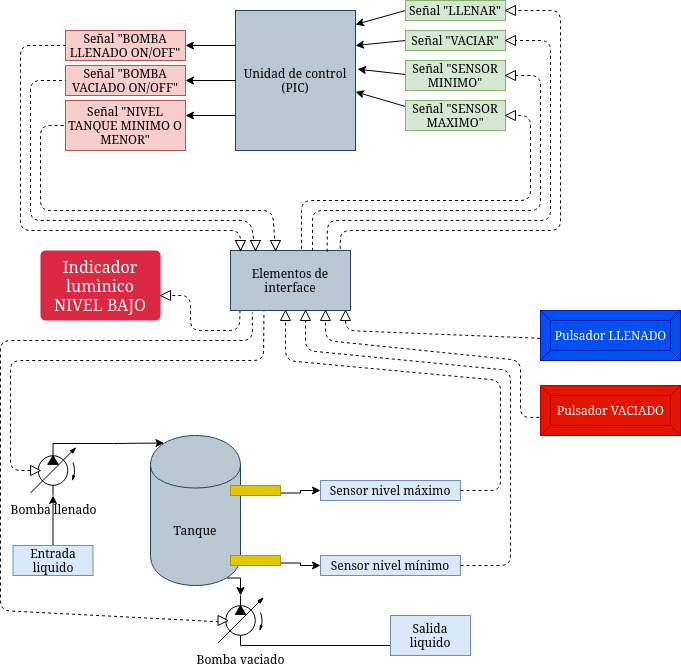
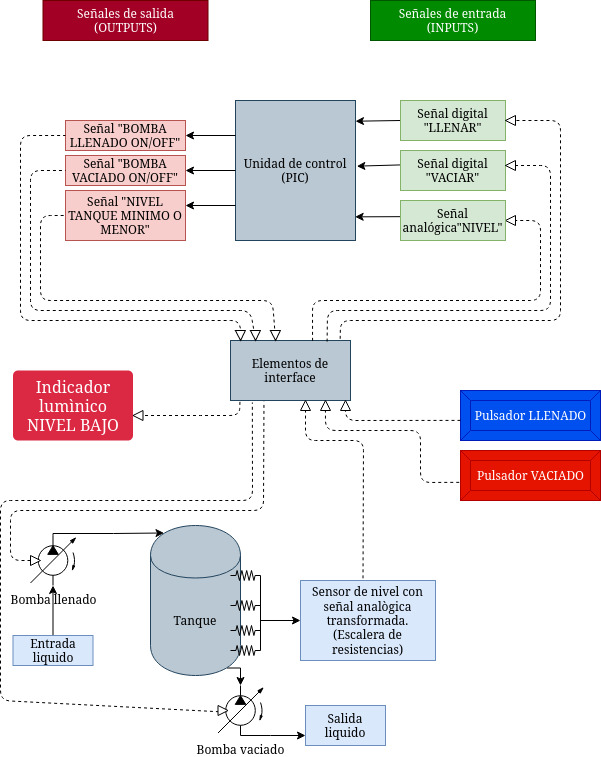
Actualizo diagrama de aequitectura inicial, formato y titulos de informe segun TODO, y Readme

diff --git a/TP3/doc/informe.tex b/TP3/doc/informe.tex
@@ -59,7 +59,7 @@ labelfont=bf,textfont=it}
 
 % Pagina propia de titulo
 \begin{titlepage}\renewcommand\and\par\centering\makeatletter
-%    \includegraphics{logo.png}\par
+    \includegraphics{logo.png}\par
     {\Large Ingeniería en Computación \par}\vspace{0.5cm}
     {\LARGE Laboratorio de Microprocesadores \par}\vfill
     {\huge \@title \par}\vfill
@@ -84,235 +84,26 @@ labelfont=bf,textfont=it}
 \section{Introducción}
 
 
-\subsection*{Características de los Puertos Analógicos}
-
-En la Figura \ref{fig:analog-pin} se muestra un circuito simplificado
-para una entrada analó-gica. Como los pines analógicos están conectados
-a una salida digital, tienen diodos con polarización inversa a VDD y 
-VSS. La entrada analógica, por lo tanto, debe estar entre VSS y VDD.
-
-\begin{figure}[h]\centering
-%    \includegraphics[height=3cm]{informefig4.png}
-    \caption{Ilustración del circuito interno de un puerto analógico}
-    \label{fig:analog-pin}
-\end{figure}
-
-Si el voltaje de entrada se desvía de este rango en más de 0.6V
-en cualquier dirección, uno de los diodos está polarizado hacia adelante
-y puede producirse un bloqueo. Se recomienda una resistencia máxima de 10 kOhm para las fuentes analógicas.
-Cualquier componente externo conectado a un pin de entrada analógica,
-como un capacitor o un diodo Zener, debe tener muy poca pérdida de corriente.
-
-\subsubsection*{Módulo Comparador Análógico}
-
-El PIC12F675 tiene un comparador analógico, y las entradas al
-comparador se multiplexan con los pines GP0 y GP1.
-Además, GP2 se puede configurar como salida del comparador.
-El registro de control del comparador (CMCON) contiene
-los bits para controlarlo.
-		
-\begin{figure}[h]\centering
-%    \includegraphics[height=4cm]{informefig3.png}
-    \caption{Resultado del comparador según los niveles de señales}
-    \label{fig:analog-signal}
-\end{figure}
-
-En la Figura \ref{fig:analog-signal} se muestra el resultado de la 
-comparación según el nivel de la señales. Cuando la entrada 
-analógica en VIN+ es menor a la entrada
-analógica en VIN-, generará una salida de nivel bajo, pero si VIN+
-es mayor que VIN-, generará un nivel alto.
-Para poder trabajar con el comparador
-utilizando la entrada analógica AN0 y el voltaje de referencia VREF 
-en lugar de GP0 y GP1, hay que setear los bits en el registro CMCON 
-en {\ttfamily 00011101} o {\ttfamily 1D} en hexadecimal.
-
-\subsubsection*{Módulo Conversor Analógico/Digital}
-
-Este módulo maneja un formato de conversión de 10 bits. Para el 
-control, hay 2 registros disponibles para controlar las 
-funcionalidades del módulo de conversión analog-to-digital. Además, 
-este módulo se maneja a través de los "bit-comparator" analógicos
-ANSEL (de 0 a 3) y los bits del TRISIO que controlan el 
-funcionamiento de los pines del mismo (normalmente se utiliza para 
-configurarlo en OUTPUT), y análogamente seteamos el bit ANS 
-correspondiente para deshabilitar el INPUT buffer.
-
-\subsection*{Dispositivos con corriente considerable o corriente alterna}
-
-La corriente alterna por su alto voltaje puede ser peligrosa y requiere un 
-aislamiento muy superior.No se puede almacenar y puede producir pulsos 
-electromagnéticos que afecten a equipos electrónicos sensibles como un radio
- o celular.
-
-Para evitar que una corriente de alto voltaje dañe los dispositivos podemos
-usar transistores que dependiendo la situacion pueden funcionar como amplificador
-de intensidad o como regulador ya que no permitira que pase mas de cierta cantidad
-corriente.
-
-El transistor cuenta con 3 pines el emisor se encarga de proporcionar las cargas 
-eléctricas, la base controla el flujo de corriente y por ultimo el colector recoge
-las cargas proporcionadas por el emisor. La diferencia de usos entre transistores 
-es que los NPN se utilizan para voltajes positivos y los PNP con voltajes negativos
-
-\begin{figure}[h]\centering
-%    \includegraphics[height=3cm]{transistorilustrado.png}
-    \caption{Representacion de un trasistor}\label{fig:transistorilustrado}
-\end{figure}
-
-
-Estos dispositivos tienen 3 estados:
-
-\begin{itemize}
-    \item {
-	Se dice que un transistor entra en estado de corte cuando el voltaje
-	de la base es nulo o menor a 0.6v, ya que que no logra activar el paso
-	de corriente entre el colector y el emisor, es decir se comporta como 
-	un interruptor abierto.
-    }
-    \item {
-        El funcionamiento en el estado de saturacion es el caso contrario a la 
-	de corte, ya que cuando el voltaje que circula por la base supera al 
-	establecido por el fabricante, satura al transistor y este permite la
-	 circulación entre colector y emisor como si fuera un cable normal,
-	 es decir se comporta como un interruptor cerrado.
-    }
-    \item {
-        El estado activo se logra cuando el voltaje de la base esta en un rango
-	intermedio entre la región de saturación y la de corte. 
-	Cuando logramos estabilizar el transistor es capaz de amplificar las 
-	señales de entrada las veces que tenga el valor de $\beta$ ya que este 
-	multiplica la corriente del transistor.
-    }    
-\end{itemize}
-
-\subsection*{Tecnologías CMOS y TTL}
-% Fijarse que este tiene * para que no se numere.
-
-Por tecnología TTL (en inglés, \textit{transistor-transistor logic})
-nos referimos a aquella que utiliza transistores de unión bipolar o 
-BJT (en inglés, \textit{bipolar junction transistor}), para la 
-construcción de circuitos digitales\cite{bib:boylestad}.
-
-En cambio, los CMOS (en inglés, \textit{complementary 
-metal-oxide-semiconduc-tor}) son un tipo de implementación de 
-transistores de efecto de campo de la familia de los MOSFET (en 
-inglés, \textit{metal-oxide-semiconductor field-effect transistor}). 
-La denominación se ha mantenido a pesar de haberse generalizado el 
-uso de silicio en vez de metal y otros aislantes en reemplazo del 
-óxido.
-
-\begin{figure}[h]\centering
-%    \includegraphics[height=3cm]{transistores.png}
-    \caption{Integrados con tecnologías CMOS (izquierda) y TTL 
-    (derecha)}\label{fig:transistores}
-\end{figure}
-
-\subsubsection*{Principales Diferencias}
-
-En la Figura \ref{fig:transistores} mostramos ejemplos de integrados 
-para ambas tecnologías y a continuación listaremos sus principales 
-diferencias desde la perspectiva de nuestras aplicaciones a diseñar:
-
-\begin{itemize}
-    \item {
-        Los integrados desarrollados con CMOS son en general más 
-        costosos que su contraparte TTL.
-    }
-    \item {
-        Los integrados con tecnología TTL son más robustos contra
-        las descargas de estáticas.
-    }
-    \item {
-        La propagación es más rápida en los TTL que en los CMOS. 
-        Estas últimas características hacen que los TTL sigan siendo
-        utilizados.
-    }    
-    \item {
-        La dimensión de los CMOS es mucho menor que la de los TTL.
-    }
-    \item {
-        Al operar con baja corriente, los CMOS tienen menos consumo 
-        que los TTL. Estas últimas características han hecho que los 
-        CMOS se transformaran en los más utilizados en la industria.
-    }
-    \item {
-        Además, los niveles de tensión para los integrados con TTL 
-        rondan los 5 voltios mientras los márgenes para los CMOS son
-        mucho mayores: desde los 3 a los 18 voltios.
-    }
-    \item {
-        La cantidad de salidas que pueden conectarse a un CMOS sin 
-        alterar el correcto funcionamiento (puesto que funcionan con
-        baja corriente) es cinco veces superior a las que permite un 
-        TTL. Sin embargo, la cantidad de entradas posibles son 
-        levemente superiores en estos últimos.
-    }
-
-\end{itemize}
-
-
 \section{Descripción de la Práctica}
 
 \subsection{Enunciado}
 
 A continuación transcribimos el enunciado original de la práctica.
 Del mismo tomamos los puntos teóricos que son descriptos en la 
-Introducción. Los ejercicios prácticos son desarrollados en la sección
-Diseño y Simulación.
+Introducción y fue la base para realizar el diseño detallado en la seccion correspondiente.
 
 \begin{quotation}
 
     \begin{center}
-
-        Laboratorio de Microprocesadores - 2020
         
-        Taller de Microprocesadores Trabajo Practico  2                
+        Taller de Microprocesadores Trabajo Practico  3                
 
     \end{center}
+    \begin{abstract}
+    Diseñar un sistema que permita llenar y vaciar un tanque de líquido con dos bombas independientes. 
 
-    \begin{enumerate}
-
-        \item{
-            Describir brevemente las características de las entradas 
-            analógi-cas del chip. Determine cuantos niveles se pueden 
-            detectar en una entrada analógica y cual es la mínima 
-            variación que se puede detectar.
-            
-            Haga uso de una entrada analógica en el entorno de Proteus,
-            detecte un nivel de amplitud de una señal analógica 
-            conectada a una de las entradas del chip. Puede detectar 
-            si es superior o inferior a cierto valor.
-            
-            Por ejemplo: puede encender un LED cuando el nivel de una 
-            señal analógica supere cierto valor.
-
-            Experimente el uso de instrumentos en el entorno de Proteus.
-
-            Los instrumentos en la simulación serán de mucha utilidad 
-            para verificar el funcionamiento del diseño y del programa. 
-            Encontrará, entre otros, voltímetro, amperímetro, 
-            voltímetro, generador de ondas analógicas, osciloscopio, 
-            etc.
-        }
-        \item{
-            Describa brevemente qué es la tecnología CMOS, qué es la 
-            tecnología TTL y qué las diferencia.
-        }
-        \item{
-            Qué dispostivo/s emplearía para controlar con el 
-            microcontrolador el encendido y apagado de un dispositivo 
-            que funciona a una corriente considerable o que funciona 
-            con corriente alterna. Implemente un circuito en Proteus. 
-            (Puede modificar el circuito realizado para el item 3 del 
-            TP1, para encender una lámpara o un motor).
-        }
-        \item{
-            Diseñe el circuito de alimentación del chip PIC12F675 
-            considerando que tendrá una fuente de alimentación externa 
-            de 9V. La fuente externa es una fuente 220 Vac / 9 Vdc.
-        } 
-    \end{enumerate}
+    El inicio de llenado del tanque debe realizarlo mediante un botón (o señal digital externa ) y deben ingresar 500 lts (o cierto volumen fijo). El vaciado también puede realizarse con un botón o señal digital externa. El llenado no puede realizarse si el tanque esta por encima de cierto nivel, y el vaciado deber finalizar con un nivel mínimo en el tanque para proteger que la bomba no funcione sin líquido. El vaciado no puede en caso que no existe ese nivel mínimo y debe indicarse con una luz que el tanque se encuentra en su mínimo nivel.
+    \end{abstract}
 \end{quotation}
 
 \subsection{Plataforma de Desarrollo}
@@ -352,9 +143,11 @@ integrado junto con el código ejecutable.
 
 \section{Diseño del sistema}
 
-\begin{ejercicios}
+    \subsection{Caso de uso}
 
-    \subsection{Consideraciones generales}\label{ej:monitoreo}
+    Completar
+
+    \subsection{Diagrama de arquitectura}
 
     Completar
 
@@ -362,32 +155,25 @@ integrado junto con el código ejecutable.
     \begin{figure}[h]\centering
     % La opcion `[h]` es para "here", pero puede cagarse en eso.
     % No usar "la imagen que sigue" sino la referencia.
-        \includegraphics[height=10cm]{diagrama_sistema.jpg}
+        \includegraphics[height=12cm]{diagrama_sistema.jpg}
         \caption{Esquema del sistema general.}\label{fig:esquematico1}
     \end{figure}
     % --- hasta acá.
 
-    
-\end{ejercicios}
+    \subsection{Esquemático del circuito.}
 
+    \subsection{Descripción de funcionamiento.}
+
+
+
+    
+\section{Análisis y simulación.}
+
+\subsection{Completar las subsecciones}
 
 \section{Conclusiones}
 
-En general, los microcontroladores están destinados a aplicaciones
-específicas que siempre involucran un intercambio con un medio que 
-no es digital. El manejo tanto de señales analógica como de 
-alimentacion de corriente alterna resulta indispensable.
-
-Los transistores son los componentes indispensables para esta 
-interconexión, lo mismo que diversas construcciones como las 
-escaleras de resistencias para la conversion analógica/digital
-o las tecnicas de administración de energía como la modulación
-por pulso (o PWM, por sus siglas en inglés).
-
-Esta práctica brinda un panorama rápido acerca de los componentes
-electró-nicos involucrados, así como la configuración necesaria de 
-los registros y módulos del microcontrolador que han sido destinados
-específicamente para estas aplicaciones.
+Completar
 
 \noindent\rule{\textwidth}{1pt}
 % Linea horizontal sin identacion y del ancho del texto

diff --git a/TP3/doc/Readme.md b/TP3/doc/Readme.md
@@ -20,34 +20,34 @@ _TODO_
 
 - [X] Carátula
 - [ ] Resumen
-- [ ] Introducción
+- [X] Introducción
     - [ ] Relé
     - [ ] Optoacoplador
     - [ ] Escalera de resistencias
-- [ ] Descripción de la Práctica
+- [X] Descripción de la Práctica
     - [ ] Enunciado
     - [ ] Entorno de desarrollo
     - [ ] Lista de materiales (costo, datasheet)
-- [ ] Diseño
+- [X] Diseño
     - [ ] Caso de uso (UML)
     - [ ] Diagrama de despliegue/arquitectura de red (UML)
     - [ ] Esquemático de la placa
     - [ ] Control de flujo/flujo de datos (CDFG), diagrama de estados (de corresponder) o sólo descripción textual de la aplicación
-- [ ] Análisis y Simulación
+- [X] Análisis y Simulación
     - [ ] Previamente identificar las acciones en los casos de usos y los estados del sistema ante cada mensaje.
     - [ ] Describir en texto la simulación de cada acción mostrando esquemáticos que reflejen el cambio de estado.
     - [ ] Grabar un video con la simulación y utilizar el texto descriptivo como guión.
-- [ ] Conclusión
+- [X] Conclusión
     - [ ] Expresar brevemente la respuesta al interrogante del resumen o aquello aprendido. 
     - [ ] Apreciación de nuestra aplicación (salvedades, posibles mejoras, comparativa de costos/utilidad con aplicaciones comerciales)
     - [ ] Apreciación sobre el cursado a distancia o virtual. (Opcional)
-- [ ] Referencias
+- [X] Referencias
     - [ ] Relé
     - [ ] Optoacoplador
     - [ ] Escalera de resistencias
     - [ ] Compilador
     - [ ] Datasheet de componentes
-- [ ] Anexos
+- [X] Anexos
     - [ ] Listado del código fuente
     - [ ] Gráficas necesarias para algún parámetro en el datasheet de algún componente. (Opcional)
     - [ ] Plano formal del esquemático. (Opcional)
